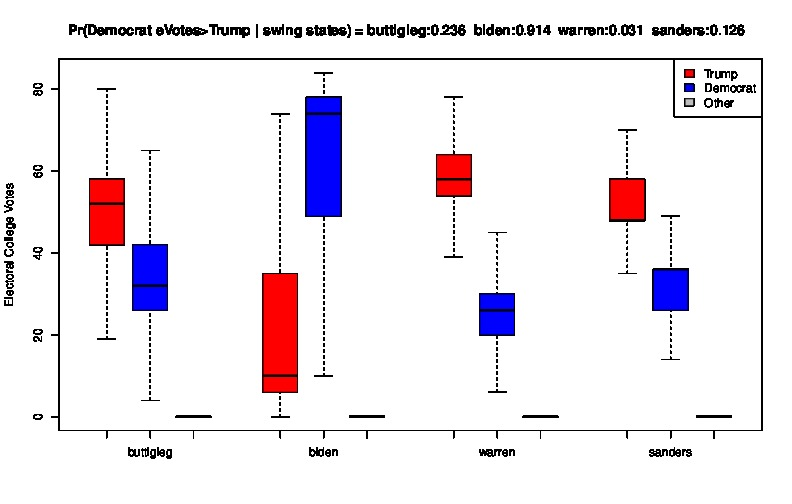
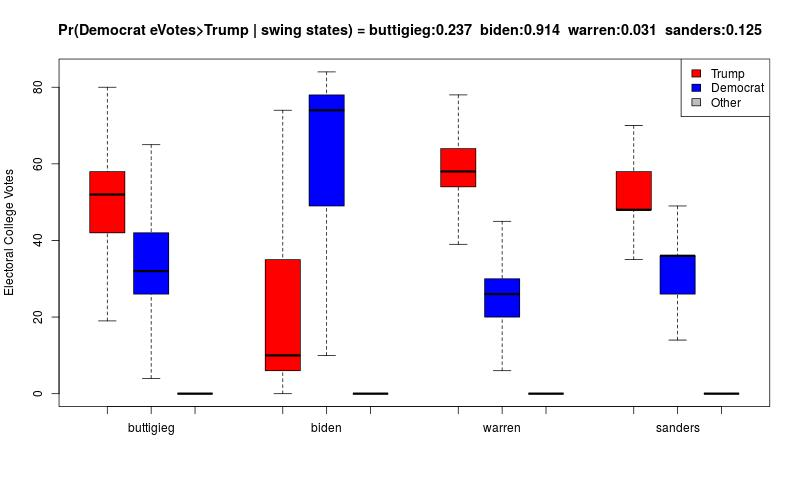
fixing the jpg

diff --git a/README.md b/README.md
@@ -57,15 +57,7 @@ that achieve at least a B+ pollster rating from FivethirtyEight. If you can thin
 deserve to be considered, I welcome you to provide me a convincing argument as to why. If I am convinced and I can 
 find the data I will include it.
 
-Candidate electoral boxplots
-
-![header image](https://raw.github.com/KrisKasprzak/ILI9341_t3_controls/master/Equalizer.jpg)
-
 ![header image](https://raw.github.com/gasduster99/primaryConcerns/master/collegeVotes.jpg)
-
-![image](./collegeVotes.pdf?raw=true "Title"))
-
-![image](https://github.com/gasduster99/primaryConcerns/blob/master/collegeVotes.pdf?raw=true)
 
 Describe probability measure
 
